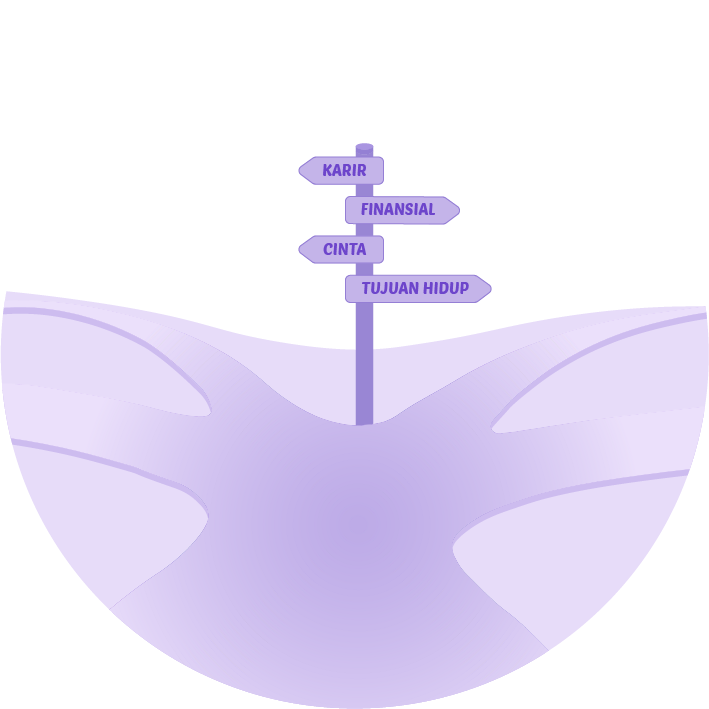
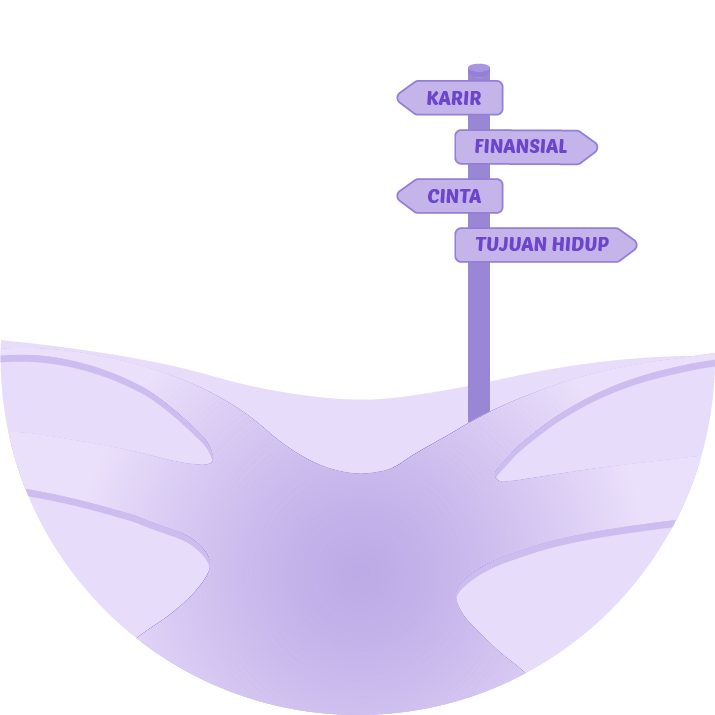
save

diff --git a/index.html b/index.html
@@ -908,36 +908,36 @@
             </div>
             <div class="row">
                 <div id="app" class="container">
-                    <card data-image="media/img/card2-slide16.jpeg">
+                    <card data-image="media/img/card2-slide16.jpeg" data-aos="zoom-in">
                         <h4 class="poetsenOne" slot="header">Ikut Komunitas atau Kegiatan Sosial</h4>
                         <p class="playpenSans" slot="content">Ikut komunitas bisa bantu mengenal diri dari sudut pandang 
                             baru. Kamu bisa menemukan minat, belajar hal baru, dan merasa tidak sendirian</p>
                     </card>
-                    <card data-image="media/img/card1-slide16.jpeg">
+                    <card data-image="media/img/card1-slide16.jpeg" data-aos="zoom-in">
                         <h4 class="poetsenOne" slot="header">Berbagi Cerita dengan Teman atau Keluarga</h4>
                         <p class="playpenSans" slot="content">Berbagi cerita bisa membantu perasaan terasa lebih 
                             ringan. Mungkin tidak selalu dapat solusi, tapi didengarkan saja dapat 
                             membantu mengurangi rasa cemas dan kesepian</p>
                     </card>
-                    <card data-image="media/img/card3-slide16.jpeg">
+                    <card data-image="media/img/card3-slide16.jpeg" data-aos="zoom-in">
                         <h4 class="poetsenOne" slot="header">Aktivitas Fisik Ringan di Alam Terbuka</h4>
                         <p class="playpenSans" slot="content">Melakukan aktivitas ringan seperti jalan santai di luar ruangan bisa 
                             membantu tubuh dan pikiran lebih rileks sehingga dapat menurunkan stres serta 
                             memperbaiki suasana hati</p>
                     </card>
-                    <card data-image="media/img/card4-slide16.jpeg">
+                    <card data-image="media/img/card4-slide16.jpeg" data-aos="zoom-in">
                         <h4 class="poetsenOne" slot="header">Menulis Jurnal atau Catatan Pribadi</h4>
                         <p class="playpenSans" slot="content">Menulis bisa membantu kamu mengeluarkan isi pikiran yang 
                             terpendam. Kamu bisa jadi lebih sadar dengan apa yang sedang kamu rasakan dan 
                             apa yang sebenarnya kamu butuhkan</p>
                     </card>
-                    <card data-image="media/img/card5-slide16.jpeg">
+                    <card data-image="media/img/card5-slide16.jpeg" data-aos="zoom-in">
                         <h4 class="poetsenOne" slot="header">Ikut Kegiatan Belajar Nonformal</h4>
                         <p class="playpenSans" slot="content">Ikut workshop atau pelatihan bisa memberi kamu 
                             rasa berkembang sehingga bisa dapat meningkatkan 
                             kepercayaan diri kamu dan membuka kemungkinan baru</p>
                     </card>
-                    <card data-image="media/img/card6-slide16.jpeg">
+                    <card data-image="media/img/card6-slide16.jpeg" data-aos="zoom-in">
                         <h4 class="poetsenOne" slot="header">Batasi Media Sosial dan Fokus pada Diri Sendiri</h4>
                         <p class="playpenSans" slot="content">Kurangi waktu melihat media sosial dapat membantu kamu berhenti 
                             membandingkan diri dengan orang lain. Sehingga kamu bisa lebih fokus pada 

diff --git a/js/script.js b/js/script.js
@@ -477,7 +477,7 @@ document.querySelectorAll('.emotion-btn').forEach(btn=>{
 
         // Section 7
         $('.w-150').css({
-          'transform' : `translate3d(${-29}%, ${80}%, 0)`
+          'transform' : `translate3d(${-29}%, ${85}%, 0)`
         });
 
         // Section 17
@@ -816,7 +816,7 @@ document.querySelectorAll('.emotion-btn').forEach(btn=>{
 
         // Section 7
         $('.w-150').css({
-          'transform' : `translate3d(${-29}%, ${45}%, 0)`
+          'transform' : `translate3d(${-29}%, ${50}%, 0)`
         });
 
         // Section 17         
@@ -895,7 +895,7 @@ document.querySelectorAll('.emotion-btn').forEach(btn=>{
 
         // Section 7
         $('.w-150').css({
-          'transform' : `translate3d(${-29}%, ${30}%, 0)`
+          'transform' : `translate3d(${-29}%, ${40}%, 0)`
         });
 
         // Section 17         
@@ -986,11 +986,11 @@ document.querySelectorAll('.emotion-btn').forEach(btn=>{
       } else if (window.matchMedia("(max-width: 450px)").matches) {
         // Section 1
         $('.wanita-swipe').css({
-          'transform' : `translate3d(${-75}%, ${190+limQuarter*120}%, 0) scale(${180}%)`,
+          'transform' : `translate3d(${-75}%, ${200+limQuarter*120}%, 0) scale(${180}%)`,
           'opacity': (scrollPercent >= 3.7 ? 0 : 1)
         });
         $('.pria-swipe').css({
-          'transform' : `translate3d(${-145}%, ${190+limQuarter*120}%, 0) scale(${180}%)`,
+          'transform' : `translate3d(${-145}%, ${200+limQuarter*120}%, 0) scale(${180}%)`,
           'opacity': (scrollPercent >= 3.7 ? 0 : 1)
         });
         $('.quarter').css({
@@ -1381,11 +1381,11 @@ document.querySelectorAll('.emotion-btn').forEach(btn=>{
       } else if (window.matchMedia("(max-width: 550px) and (min-height: 961px)").matches) {
         // Section 1
         $('.wanita-swipe').css({
-          'transform' : `translate3d(${-75}%, ${240+limQuarter*110}%, 0) scale(${180}%)`,
+          'transform' : `translate3d(${-75}%, ${260+limQuarter*110}%, 0) scale(${180}%)`,
           'opacity': (scrollPercent >= 3.7 ? 0 : 1)
         });
         $('.pria-swipe').css({
-          'transform' : `translate3d(${-145}%, ${240+limQuarter*110}%, 0) scale(${180}%)`,
+          'transform' : `translate3d(${-145}%, ${260+limQuarter*110}%, 0) scale(${180}%)`,
           'opacity': (scrollPercent >= 3.7 ? 0 : 1)
         });
         $('.quarter').css({
@@ -2034,7 +2034,7 @@ document.querySelectorAll('.emotion-btn').forEach(btn=>{
 
         // Section 7
         $('.w-150').css({
-          'transform' : 'translate3d('+ (0) +'%, '+ (25) +'%, 0)'
+          'transform' : 'translate3d('+ (0) +'%, '+ (30) +'%, 0)'
         });
 
         // Section 17
@@ -2152,7 +2152,7 @@ document.querySelectorAll('.emotion-btn').forEach(btn=>{
           'opacity': (scrollPercent >= 14.8 ? 0.15 : 1)
         }); 
         $('.daun').css({
-          'transform' : `translate3d(-2%, ${-20-limdaun*0.5}%, 0)`,
+          'transform' : `translate3d(0%, ${0-limdaun*0.5}%, 0)`,
           'opacity': bgfixed(scrollPercent)
         });
 
@@ -2191,7 +2191,7 @@ document.querySelectorAll('.emotion-btn').forEach(btn=>{
 
         // Section 7
         $('.w-150').css({
-          'transform' : `translate3d(${0}%, ${20}%, 0)` 
+          'transform' : `translate3d(${0}%, ${27}%, 0)` 
         });
       } else if (window.matchMedia("(max-width: 1550px)").matches) {
         // Section 1
